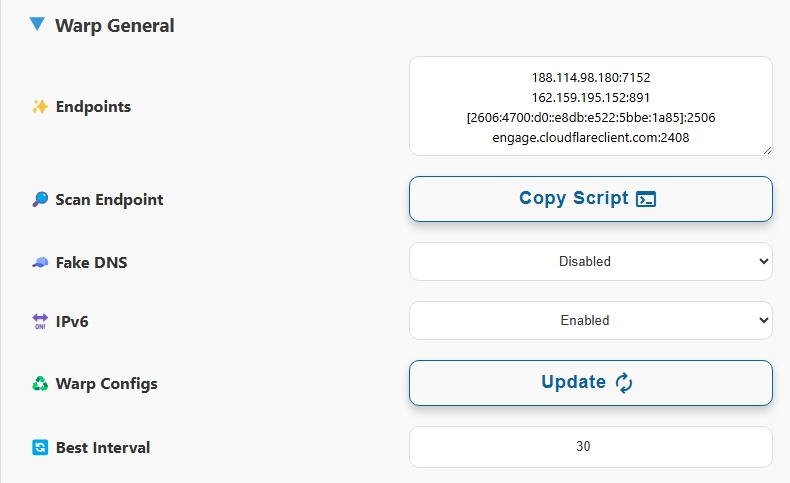
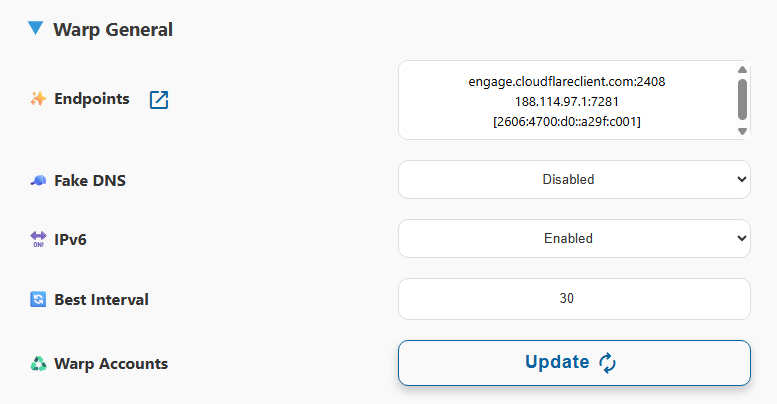
Updated docs, Release v3.3.4

diff --git a/src/assets/panel/index.html b/src/assets/panel/index.html
@@ -224,7 +224,7 @@
                         </div>
                     </div>
                     <div class="form-control">
-                        <label for="refreshBtn">♻ Warp Configs</label>
+                        <label for="refreshBtn">♻ Warp Accounts</label>
                         <div>
                             <button type="button" class="button reverse" onclick="updateWarpConfigs()">
                                 Update<span id="warp-update" class="material-symbols-rounded">autorenew</span>

diff --git a/docs/en/docs/configuration/warp.md b/docs/en/docs/configuration/warp.md
@@ -31,10 +31,10 @@ You can enable Fake DNS for Warp configs to reduce DNS latency. However, use cau
 
 If your ISP does not support IPv6, disable it to optimize DNS and proxy performance.
 
-## Updating Warp configs
-
-Updating the subscription retrieves new Warp configs from **Cloudflare**. This process does not affect connection speed.
-
 ## Best Interval
 
 **Warp** and **Warp Pro** subscriptions include **Best Ping** configs. By default, these test configs every 30 seconds to identify the optimal config or Endpoint for connection. On slower networks, this interval may cause lag during activities like video streaming or gaming. You can adjust the interval between 10 and 90 seconds.
+
+## Warp Accounts
+
+Updating the accounts retrieves new Warp accounts from **Cloudflare**. This process does not affect connection speed or other settings.
